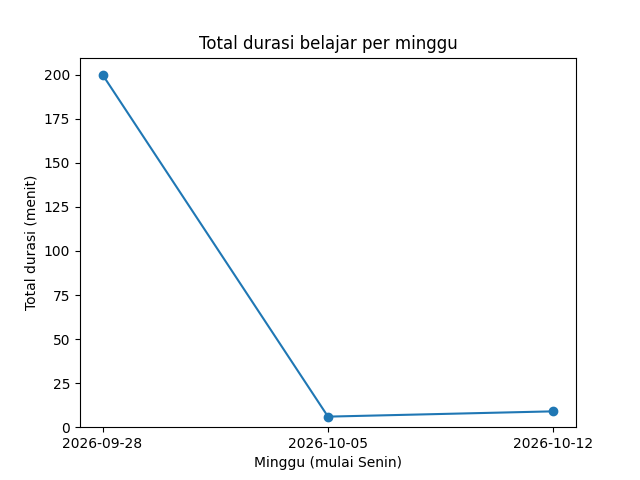
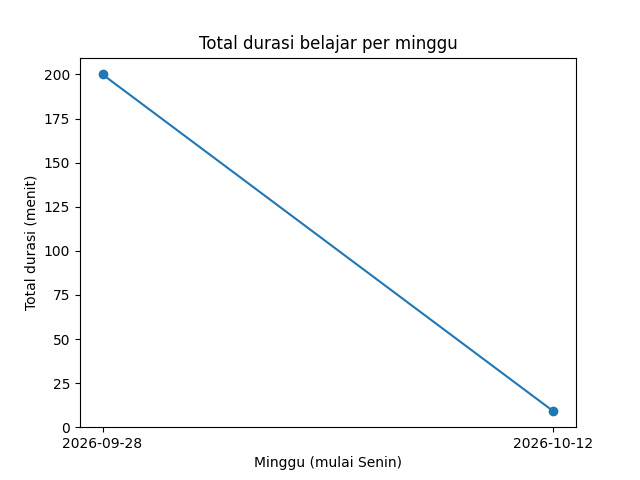
Charts Changes 1.0

diff --git a/charts.py b/charts.py
@@ -2,14 +2,27 @@
 
 import matplotlib.pyplot as plt
 import pandas as pd
-from analysis import get_sessions_dataframe, weekly_summary
+from analysis import get_sessions_dataframe, weekly_summary, SESSIONS_COLUMNS
 
-SESSIONS_COLUMNS=['id', 'focus_scale', 'duration', 'right_answers', 'total_questions', 'date', 'subject_name']
 
 def plot_minute_per_week(weekly):
+    if weekly.empty:
+        fig, ax = plt.subplots()
+    
+        ax.text(0.5, 0.5, 'Belum Ada Data', 
+            fontsize=16, 
+            fontweight='bold',
+            color='darkgray', 
+            ha='center', 
+            va='center', 
+            transform=ax.transAxes)
+    
+        ax.axis('off')
+    
+        return fig
+        
     fig, ax = plt.subplots()
     ax.plot(weekly.index, weekly["total_minute"], marker="o")
-    print(weekly.index)
     ax.set_title("Total durasi belajar per minggu")
     ax.set_xlabel("Minggu (mulai Senin)")
     ax.set_ylabel("Total durasi (menit)")
@@ -20,6 +33,28 @@ def plot_minute_per_week(weekly):
     
     return fig
 
+def plot_weekly_overview(weekly):
+    fig, (ax_top, ax_bottom) = plt.subplots(nrows=2, ncols=1, sharex=True, constrained_layout=True)
+
+    ax_top.bar(weekly.index, weekly["total_minute"], width=4)
+    ax_bottom.plot(weekly.index, weekly["total_active_days"], marker="o")
+
+    ax_top.set_title("Total durasi belajar per minggu")
+    ax_top.set_xlabel("Minggu (mulai Senin)")
+    ax_top.set_ylabel("Total durasi (menit)")
+
+    ax_bottom.set_title("Total hari aktif per minggu")
+    ax_bottom.set_xlabel("Minggu (mulai Senin)")
+    ax_bottom.set_ylabel("Total hari aktif (Hari)")
+
+    ax_top.set_xticks(weekly.index.date)
+    ax_top.set_xticklabels(weekly.index.date)
+
+    ax_bottom.set_xticks(weekly.index.date)
+    ax_bottom.set_xticklabels(weekly.index.date)
+    ax_bottom.set_ylim(bottom=0)
+
+    return fig
 
 if __name__ == "__main__":
     df = get_sessions_dataframe()
@@ -30,8 +65,6 @@ if __name__ == "__main__":
                 (3, 7, 30, None, None, "2026-10-03", "Fisika"),
                 (4, 5, 45, None, None, "2026-10-01", "Sejarah"),
                 (5, 9, 25, None, None, "2026-10-04", "Sejarah"),
-                (6, 8, 3, None, None, "2026-10-06", "Fisika"),
-                (6, 8, 3, None, None, "2026-10-07", "Fisika"),
                 (6, 8, 3, None, None, "2026-10-13", "Fisika"),
                 (6, 8, 3, None, None, "2026-10-14", "Fisika"),
                 (6, 8, 3, None, None, "2026-10-14", "Fisika"),
@@ -39,8 +72,16 @@ if __name__ == "__main__":
             columns=SESSIONS_COLUMNS,
             )
 
+    empty_df = pd.DataFrame([], columns=SESSIONS_COLUMNS)
+
     fig = plot_minute_per_week(weekly_summary(df))
     fig.savefig("weekly_minutes.png")
     fig = plot_minute_per_week(weekly_summary(sample_df))
     fig.savefig("weekly_minutes_sample.png")
+    fig = plot_minute_per_week(weekly_summary(empty_df))
+    fig.savefig("weekly_minutes_empty.png")
+
+    fig = plot_weekly_overview(weekly_summary(df))
+    fig.savefig("weekly_summary.png")
+
     plt.show()
